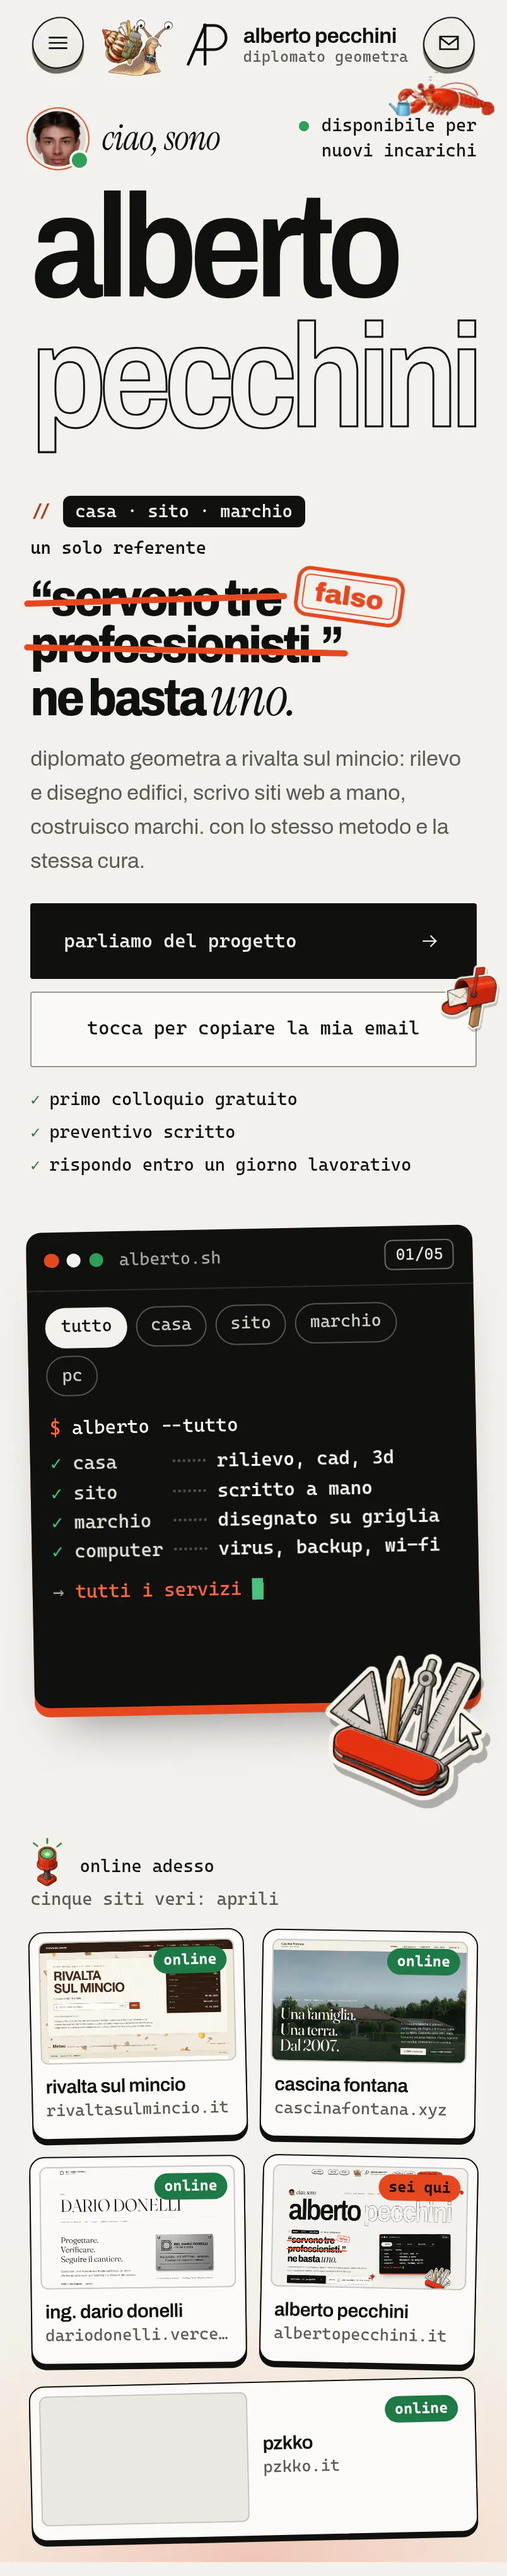
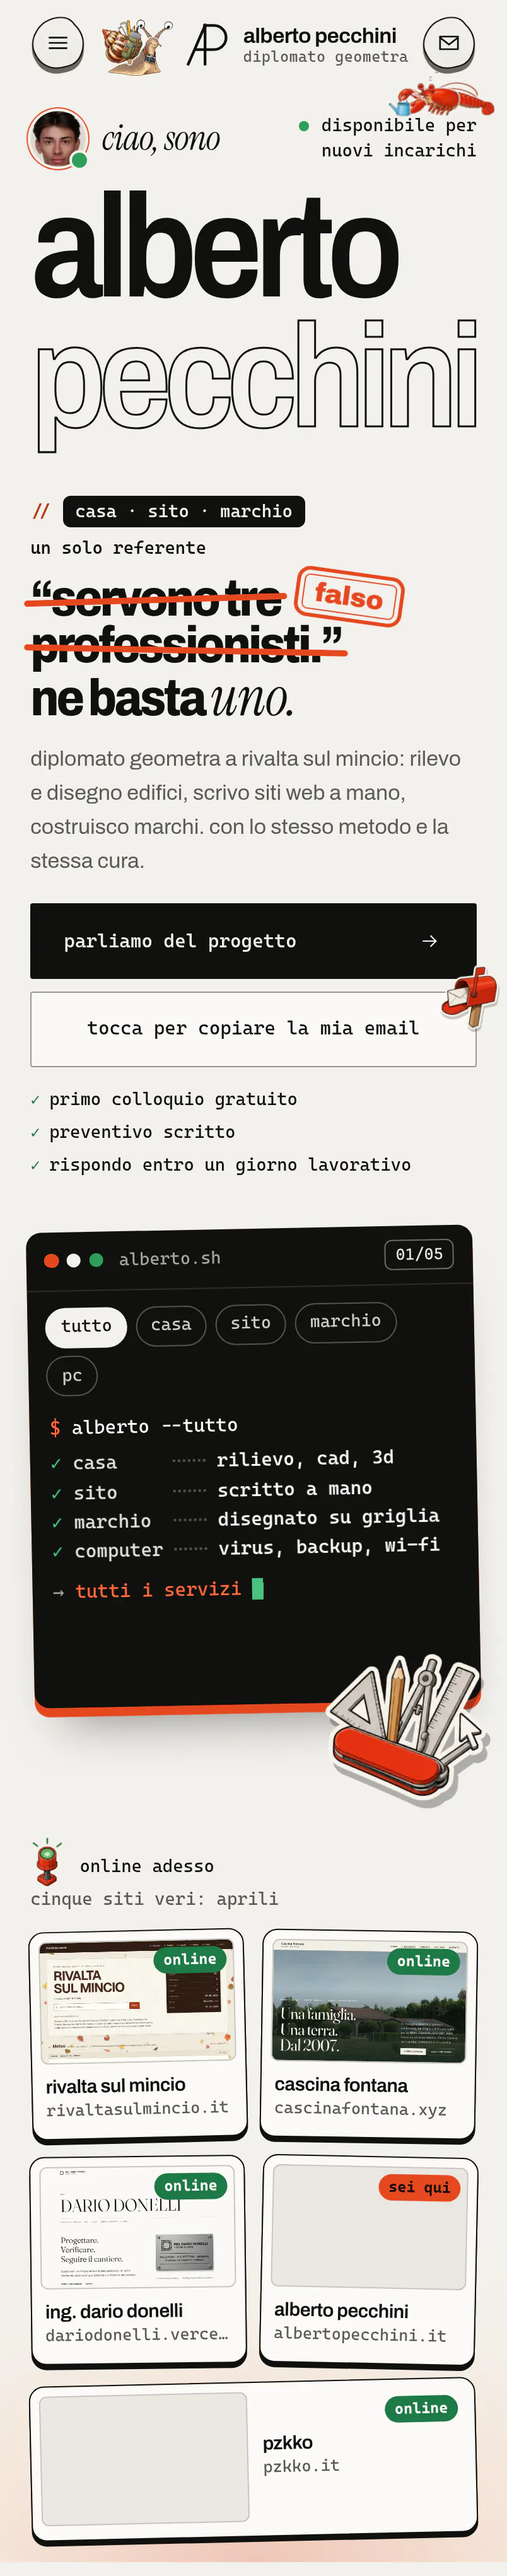
Catture aggiornate: Alberto Pecchini
Rifatte da .github/workflows/catture.yml: il sito online era cambiato.

Changed region(s): [[0.7463, 0.8396, 0.9017, 0.9018], [0.5597, 0.8396, 0.7152, 0.9018]]

diff --git a/albertopecchini.it/src/data/catture.js b/albertopecchini.it/src/data/catture.js
@@ -4,15 +4,15 @@
 // la copia vecchia dopo un aggiornamento.
 
 export const catture = {
-  'ap-desktop-tall.webp': { w: 1200, h: 2833, v: 'da77344d' },
+  'ap-desktop-tall.webp': { w: 1200, h: 2833, v: '113a4999' },
   'ap-desktop.webp': { w: 1200, h: 750, v: 'e6b83923' },
-  'ap-iphone-01.webp': { w: 804, h: 4084, v: 'a8a6199f' },
+  'ap-iphone-01.webp': { w: 804, h: 4084, v: '40aaa17b' },
   'ap-iphone-02.webp': { w: 804, h: 4084, v: '7353bb5c' },
   'ap-iphone-03.webp': { w: 804, h: 4084, v: '66da0693' },
   'ap-iphone-04.webp': { w: 804, h: 4084, v: 'b642344e' },
   'ap-iphone-05.webp': { w: 804, h: 4084, v: 'e0e4fa9f' },
   'ap-iphone-06.webp': { w: 804, h: 4080, v: 'b13c3a8b' },
-  'ap-mobile-tall.webp': { w: 600, h: 4000, v: '2888b61d' },
+  'ap-mobile-tall.webp': { w: 600, h: 4000, v: 'be7d7e7f' },
   'ap-mobile.webp': { w: 600, h: 1298, v: '6c18accf' },
   'ap-tablet.webp': { w: 720, h: 1036, v: 'c6829e03' },
   'cascina-contatti-mobile.webp': { w: 600, h: 1298, v: '990e9109' },
